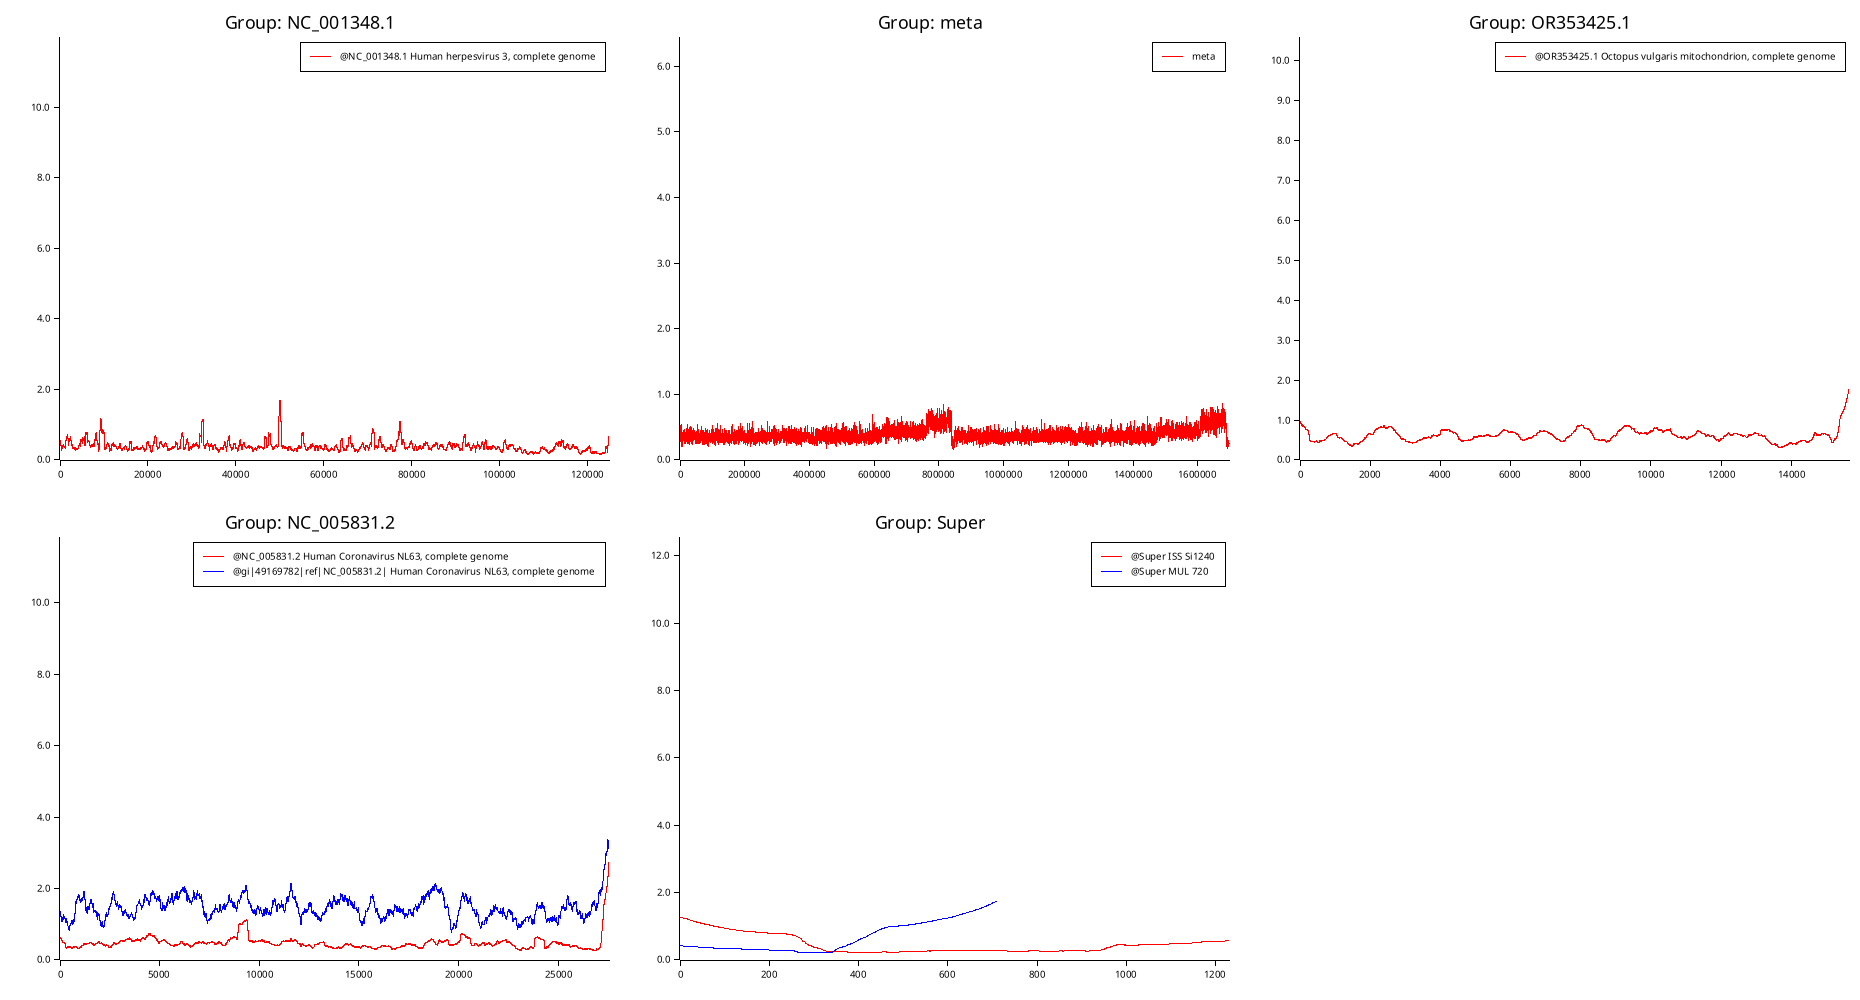
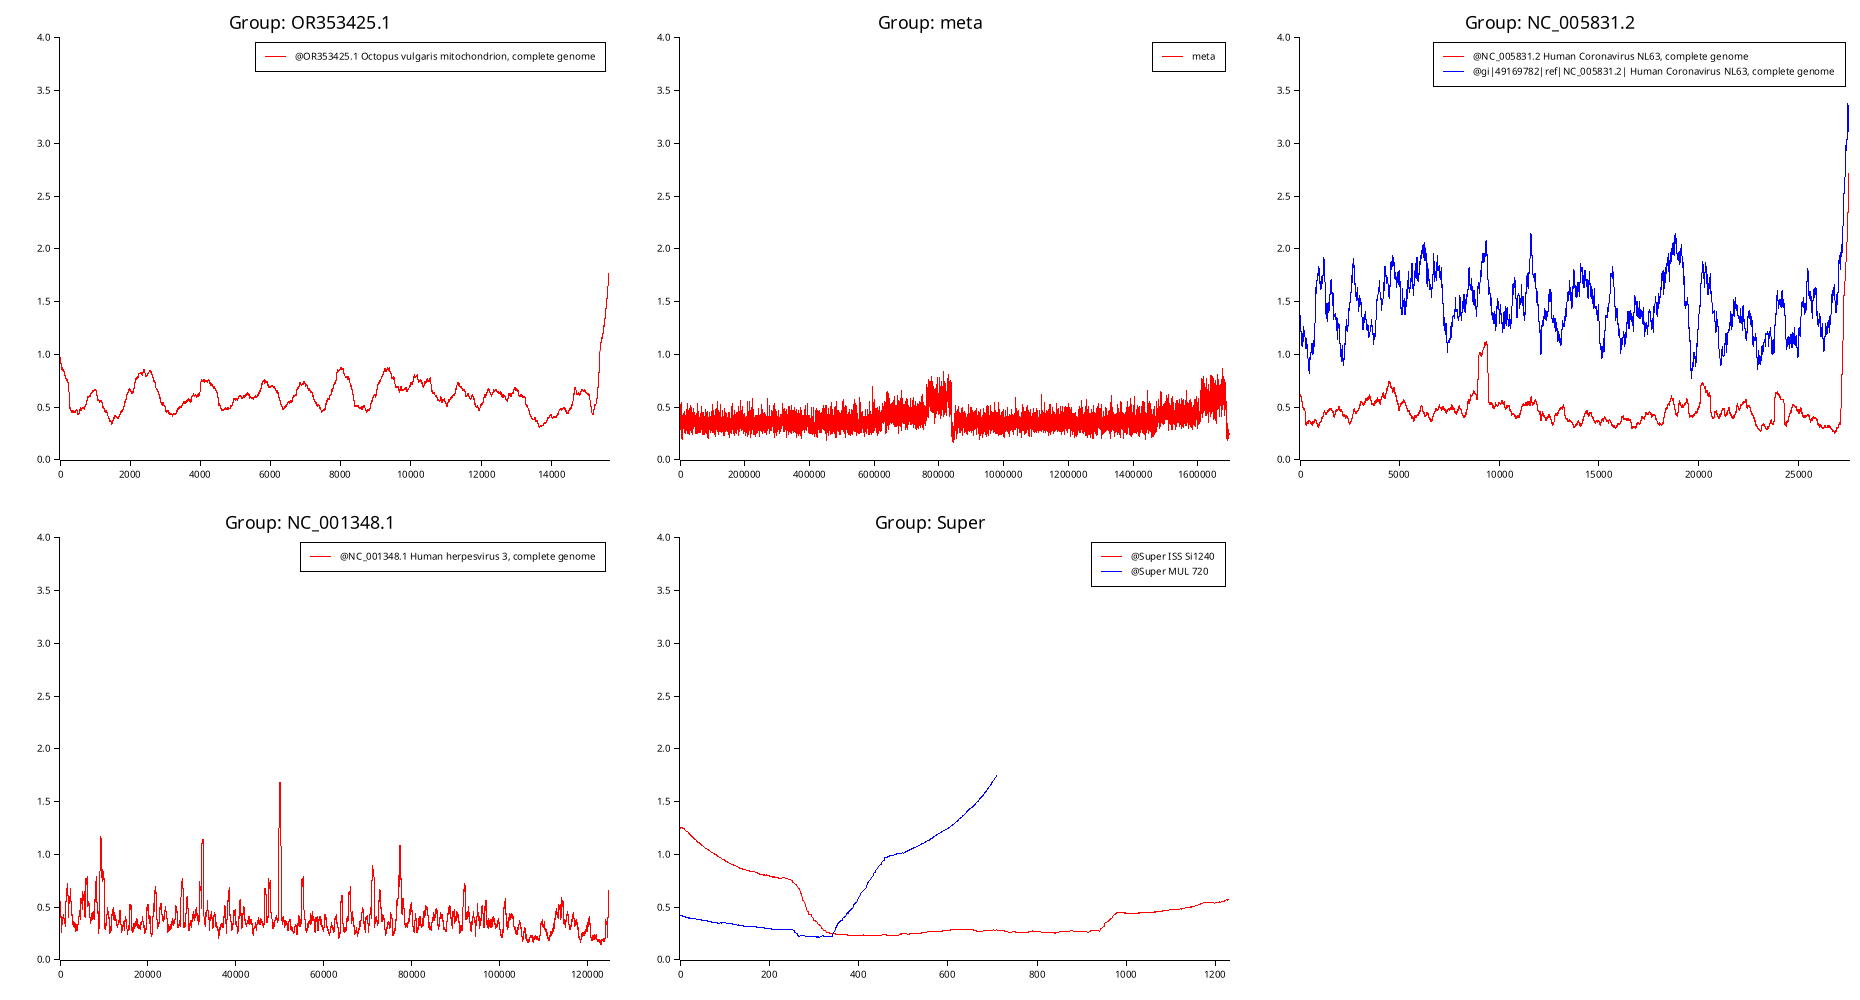
More changes somewhere i don't know where

diff --git a/gto/compare_execution_time.py b/gto/compare_execution_time.py
@@ -1,7 +1,5 @@
 import pandas as pd
 import matplotlib.pyplot as plt
-import seaborn as sns
-import numpy as np
 
 VISUALIZATIONS_DIR = "../visualizations/"
 
@@ -28,30 +26,4 @@ for metric in ['train_time', 'nrc_time', 'total_time']:
     plt.tight_layout()
     plt.savefig(f"{VISUALIZATIONS_DIR}lineplot_{metric}.png")
 
-# --- 2. Heatmaps ---
-pivot_metrics = {}
-print("\nGenerating heatmaps...")
-for metric in ['train_time', 'nrc_time', 'total_time']:
-    print(f"\tCreating heatmap for {metric}...")
-    pivot = df.pivot(index='alpha', columns='k', values=metric)
-    pivot_metrics[metric] = pivot
-    plt.figure(figsize=(12, 5))
-    sns.heatmap(pivot, annot=True, fmt=".2f", cmap="YlGnBu")
-    plt.title(f"{metric.replace('_', ' ').capitalize()} Heatmap")
-    plt.xlabel("k")
-    plt.ylabel("α")
-    plt.tight_layout()
-    plt.savefig(f"{VISUALIZATIONS_DIR}heatmap_{metric}.png")
 
-# --- 3. Stacked Bar Chart (Time Breakdown) ---
-print("\nGenerating stacked bar chart...")
-plt.figure(figsize=(12, 6))
-grouped = df[df['alpha'] == 0.01]
-plt.bar(grouped['k'], grouped['train_time'], label='Train Time')
-plt.bar(grouped['k'], grouped['nrc_time'], bottom=grouped['train_time'], label='NRC Time')
-plt.title("Execution Time Breakdown (α = 0.01)")
-plt.xlabel("k")
-plt.ylabel("Time (s)")
-plt.legend()
-plt.tight_layout()
-plt.savefig(f"{VISUALIZATIONS_DIR}stacked_bar_alpha_0.01.png")

diff --git a/src/chart_generator.rs b/src/chart_generator.rs
@@ -104,10 +104,7 @@ impl ChartGenerator {
                 .max()
                 .unwrap_or(100);
 
-            let max_val = profiles_in_group
-                .iter()
-                .flat_map(|(_, p)| p.iter().cloned())
-                .fold(0f64, f64::max);
+            let max_val = 4.0;
 
             let mut chart = ChartBuilder::on(&area)
                 .margin(10)
